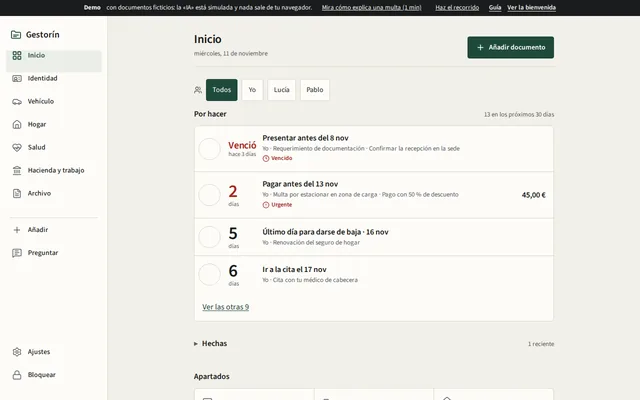
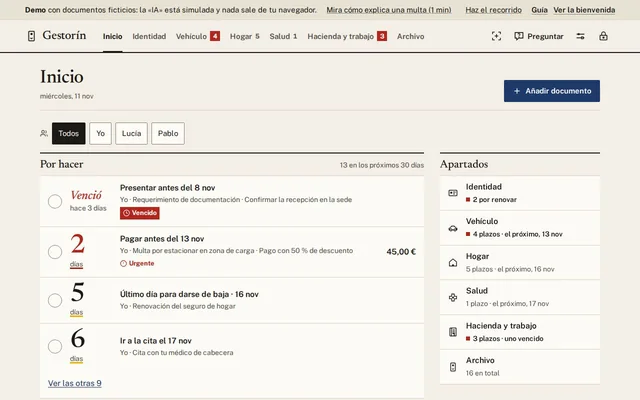
Gestorín 3.2: captura del diseño nuevo «Expediente con señal» (v1.2.3) (#22)

diff --git a/site/index.html b/site/index.html
@@ -50,7 +50,7 @@
         <!-- tarjetas:inicio · generado por scripts/generar-tarjetas.mjs desde proyectos.json: no lo edites a mano -->
         <article class="project-card" data-category="Familia"><img src="img/proyectos/lazo.webp" width="640" height="400" loading="lazy" alt="Captura de Lazo: la lista de Mamá vista por otro miembro, con el presupuesto, «Mamá no ve esto» y los regalos con sus fotos, libres o ya cogidos"><div class="card-body"><span class="tag">Familia</span><h3>Lazo</h3><p class="tagline">Listas de regalos en familia, sin repetidos ni spoilers.</p><p>Cada uno apunta lo que quiere (de Amazon, de cualquier tienda o de un Excel) y los demás lo reservan o lo compran; nadie ve lo de su propia lista, ni siquiera por la API. Hucha común con ajuste de cuentas, regalos a medias, amigo invisible y día de la entrega. Web (PWA) y Android, autoalojado con PocketBase e IA opcional (Ollama en casa).</p><ul class="stack" aria-label="Tecnologías"><li>React</li><li>TypeScript</li><li>PWA</li><li>Android (Capacitor)</li><li>PocketBase</li><li>IA</li></ul><div class="card-links"><a href="https://bertmarti.github.io/lazo/" target="_blank" rel="noopener noreferrer">Abrir la web <span aria-hidden="true">↗</span></a><a href="https://github.com/BertMarti/lazo/releases/latest" target="_blank" rel="noopener noreferrer">App Android <span aria-hidden="true">↓</span></a><a href="https://github.com/BertMarti/lazo" target="_blank" rel="noopener noreferrer">Ver el código <span aria-hidden="true">↗</span></a></div></div></article>
         <article class="project-card" data-category="Día a día"><img src="img/proyectos/fresquito.webp" width="640" height="400" loading="lazy" alt="Captura de Fresquito: inventario de la nevera ordenado por lo que caduca antes, en azul y verde"><div class="card-body"><span class="tag">Día a día</span><h3>Fresquito</h3><p class="tagline">Lo que hay en tu nevera, antes de que caduque.</p><p>Haz una foto a la nevera, la despensa o el ticket y la IA apunta qué tienes, te avisa de lo que caduca y te propone recetas según tus preferencias (fitness, vegana, picante…); lo que falta pasa a tu lista de la compra. Web (PWA) y Android, con modelos de IA gratuitos por defecto.</p><ul class="stack" aria-label="Tecnologías"><li>React</li><li>TypeScript</li><li>PWA</li><li>Android (Capacitor)</li><li>IA</li></ul><div class="card-links"><a href="https://bertmarti.github.io/fresquito-demo/" target="_blank" rel="noopener noreferrer">Probar la demo <span aria-hidden="true">↗</span></a><span class="no-web">Código privado</span></div></div></article>
-        <article class="project-card" data-category="Día a día"><img src="img/proyectos/gestorin.webp" width="640" height="400" loading="lazy" alt="Captura de Gestorín 3.0: inicio con la lista «Por hacer», los plazos más urgentes arriba y el filtro por persona de la familia"><div class="card-body"><span class="tag">Día a día</span><h3>Gestorín</h3><p class="tagline">Tu gestor de bolsillo.</p><p>Te explica cartas, multas y notificaciones en lenguaje llano, convierte cada plazo en una tarea y te avisa antes. Novedades de la 3.0: los papeles de toda la familia, un lector con IA en casa (Ollama) para todos, modo sin IA y Ajustes más sencillos. Windows y Android.</p><ul class="stack" aria-label="Tecnologías"><li>Tauri</li><li>Rust</li><li>React</li><li>TypeScript</li><li>Ollama</li></ul><div class="card-links"><a href="https://bertmarti.github.io/gestorin-demo/" target="_blank" rel="noopener noreferrer">Probar la demo <span aria-hidden="true">↗</span></a><span class="no-web">Código privado</span></div></div></article>
+        <article class="project-card" data-category="Día a día"><img src="img/proyectos/gestorin.webp" width="640" height="400" loading="lazy" alt="Captura de Gestorín 3.2: índice de apartados arriba, plazos con su cifra grande en serif y el índice de apartados a la derecha"><div class="card-body"><span class="tag">Día a día</span><h3>Gestorín</h3><p class="tagline">Tu gestor de bolsillo.</p><p>Te explica cartas, multas y notificaciones en lenguaje llano, convierte cada plazo en una tarea y te avisa antes. Estrena diseño en la 3.2, «Expediente con señal»: papel marfil, cifras serif grandes, iconos propios y color solo para el tiempo. Toda la familia, con IA local (Ollama) o sin IA. Windows y Android.</p><ul class="stack" aria-label="Tecnologías"><li>Tauri</li><li>Rust</li><li>React</li><li>TypeScript</li><li>Ollama</li></ul><div class="card-links"><a href="https://bertmarti.github.io/gestorin-demo/" target="_blank" rel="noopener noreferrer">Probar la demo <span aria-hidden="true">↗</span></a><span class="no-web">Código privado</span></div></div></article>
         <article class="project-card" data-category="Casa"><img src="img/proyectos/aria.webp" width="640" height="400" loading="lazy" alt="Captura de ARIA, asistente de IA para el hogar"><div class="card-body"><span class="tag">Casa</span><h3>ARIA</h3><p class="tagline">Tu casa, con voz propia.</p><p>Asistente de IA autoalojado que gestiona las apps de tu casa: chat y voz, Telegram, rutinas y control parental. Gratis, en una Raspberry Pi o un PC.</p><ul class="stack" aria-label="Tecnologías"><li>Python</li><li>FastAPI</li><li>Ollama</li><li>Docker</li><li>Telegram</li></ul><div class="card-links"><a href="https://bertmarti.github.io/ARIA/" target="_blank" rel="noopener noreferrer">Abrir la web <span aria-hidden="true">↗</span></a><a href="https://github.com/BertMarti/ARIA" target="_blank" rel="noopener noreferrer">Ver el código <span aria-hidden="true">↗</span></a></div></div></article>
         <article class="project-card" data-category="Casa"><img src="img/proyectos/shield-dns.webp" width="640" height="400" loading="lazy" alt="Captura de SHIELD-DNS, bloqueador de anuncios para toda la casa"><div class="card-body"><span class="tag">Casa</span><h3>SHIELD-DNS</h3><p class="tagline">Adiós a los anuncios en toda la casa.</p><p>Bloquea anuncios y rastreadores en todos tus dispositivos a la vez (Pi-hole + Unbound con DNSSEC), con guía paso a paso.</p><ul class="stack" aria-label="Tecnologías"><li>Pi-hole</li><li>Unbound</li><li>DNSSEC</li><li>Docker</li></ul><div class="card-links"><a href="https://bertmarti.github.io/SHIELD-DNS/" target="_blank" rel="noopener noreferrer">Abrir la web <span aria-hidden="true">↗</span></a><a href="https://github.com/BertMarti/SHIELD-DNS" target="_blank" rel="noopener noreferrer">Ver el código <span aria-hidden="true">↗</span></a></div></div></article>
         <article class="project-card" data-category="Casa"><img src="img/proyectos/heimdall.webp" width="640" height="400" loading="lazy" alt="Captura de HEIMDALL, VPN para entrar en casa desde fuera"><div class="card-body"><span class="tag">Casa</span><h3>HEIMDALL</h3><p class="tagline">Tu casa, a mano desde cualquier sitio.</p><p>Tu propia VPN WireGuard para entrar en casa desde fuera de forma segura, con guía paso a paso.</p><ul class="stack" aria-label="Tecnologías"><li>WireGuard</li><li>wg-easy</li><li>Caddy</li><li>Docker</li></ul><div class="card-links"><a href="https://bertmarti.github.io/HEIMDALL/" target="_blank" rel="noopener noreferrer">Abrir la web <span aria-hidden="true">↗</span></a><a href="https://github.com/BertMarti/HEIMDALL" target="_blank" rel="noopener noreferrer">Ver el código <span aria-hidden="true">↗</span></a></div></div></article>
@@ -69,6 +69,6 @@
     <section class="commitling wrap" aria-labelledby="commitling-title"><div><p class="eyebrow">UN PROYECTO QUE CRECE</p><h2 id="commitling-title">Mi commitling</h2><p>Crece con mis commits y se actualiza cada día.</p><a class="text-link" href="https://bertmarti.github.io/commitling/" target="_blank" rel="noopener noreferrer">Conoce a la mascota <span aria-hidden="true">↗</span></a></div><a href="https://bertmarti.github.io/commitling/" target="_blank" rel="noopener noreferrer"><picture><source id="commitling-oscuro" srcset="https://raw.githubusercontent.com/BertMarti/BertMarti/main/commitling-dark.svg" media="(prefers-color-scheme: dark)"><img src="https://raw.githubusercontent.com/BertMarti/BertMarti/main/commitling.svg" width="480" height="200" loading="lazy" alt="Commitling, mascota pixel-art que crece con los commits"></picture></a></section>
     <section class="contact wrap" aria-labelledby="contact-title"><p class="eyebrow">HABLEMOS</p><h2 id="contact-title">Contacto</h2><p>Si quieres construir algo útil, puedes encontrarme aquí:</p><div class="contact-links"><a href="https://www.linkedin.com/in/alberto-martinez-moreno/" target="_blank" rel="noopener noreferrer">LinkedIn <span aria-hidden="true">↗</span></a><a href="https://github.com/BertMarti" target="_blank" rel="noopener noreferrer">GitHub <span aria-hidden="true">↗</span></a></div></section>
   </main>
-  <footer class="site-footer"><div class="wrap"><span>Hecho a mano, sin dependencias</span><span class="dot">·</span><a href="https://github.com/BertMarti/BertMarti" target="_blank" rel="noopener noreferrer">Código en GitHub</a><span class="dot">·</span><a href="https://github.com/BertMarti/BertMarti/blob/main/CHANGELOG.md" target="_blank" rel="noopener noreferrer">v1.2.2</a></div></footer>
+  <footer class="site-footer"><div class="wrap"><span>Hecho a mano, sin dependencias</span><span class="dot">·</span><a href="https://github.com/BertMarti/BertMarti" target="_blank" rel="noopener noreferrer">Código en GitHub</a><span class="dot">·</span><a href="https://github.com/BertMarti/BertMarti/blob/main/CHANGELOG.md" target="_blank" rel="noopener noreferrer">v1.2.3</a></div></footer>
 </body>
 </html>

diff --git a/README.md b/README.md
@@ -61,7 +61,7 @@ Arriba, lo más nuevo: dos apps con IA que ya puedes probar en su demo (de momen
     <td width="33%" valign="top">
       <a href="https://bertmarti.github.io/gestorin-demo/"><img src="./site/img/proyectos/gestorin.webp" alt="Demo de Gestorín" width="100%"></a>
       <h3>🗂 <a href="https://github.com/BertMarti/gestorin-demo">Gestorín</a></h3>
-      <p><strong>Tu gestor de bolsillo.</strong><br>Te explica cartas, multas y notificaciones en lenguaje llano, convierte cada plazo en una tarea y te avisa antes. Novedades de la 3.0: los papeles de toda la familia, un lector con IA en casa (Ollama) para todos, modo sin IA y Ajustes más sencillos. Windows y Android.</p>
+      <p><strong>Tu gestor de bolsillo.</strong><br>Te explica cartas, multas y notificaciones en lenguaje llano, convierte cada plazo en una tarea y te avisa antes. Estrena diseño en la 3.2, «Expediente con señal»: papel marfil, cifras serif grandes, iconos propios y color solo para el tiempo. Toda la familia, con IA local (Ollama) o sin IA. Windows y Android.</p>
       <p><sub>Tauri · Rust · React · TypeScript · Ollama</sub></p>
       <a href="https://bertmarti.github.io/gestorin-demo/"><img src="https://img.shields.io/badge/DEMO-7C3AED?style=flat-square&logo=googlechrome&logoColor=white" alt="Demo de Gestorín"></a>
       <img src="https://img.shields.io/badge/C%C3%93DIGO%20PRIVADO-6B7280?style=flat-square&logo=github&logoColor=white" alt="Código privado">

diff --git a/CHANGELOG.md b/CHANGELOG.md
@@ -3,6 +3,12 @@
 Todas las versiones del perfil y del portafolio (https://bertmarti.github.io/BertMarti/).
 El formato sigue [Keep a Changelog](https://keepachangelog.com/es-ES/1.1.0/) y las versiones, [SemVer](https://semver.org/lang/es/).
 
+## [1.2.3] - 2026-11-11
+
+### Cambiado
+- **Gestorín** (v3.2.1): captura del diseño nuevo, «Expediente con señal», con el índice de apartados arriba en lugar del panel lateral, las cifras de días en serif y los iconos propios. La descripción lo cuenta.
+- Versión del pie del portafolio: v1.2.3.
+
 ## [1.2.2] - 2026-11-11
 
 ### Cambiado
